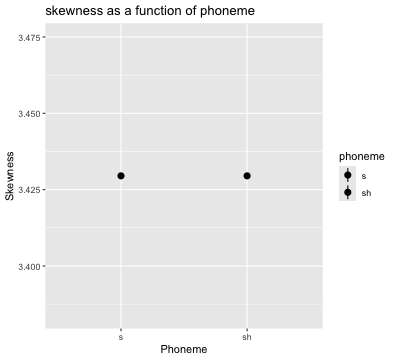
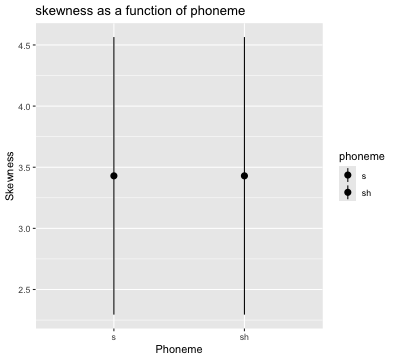
update

diff --git a/slides/index.html b/slides/index.html
@@ -151,7 +151,7 @@ data_1|&gt;
 ``` r
   ggplot(data_1, 
          aes(x = phoneme, y = skewness, fill = phoneme)) + 
-  stat_summary(fun = mean) +
+  stat_summary(fun.data = mean_sdl) +
   labs(title = "skewness as a function of phoneme",
        x = "Phoneme", y = "Skewness")
 ```
